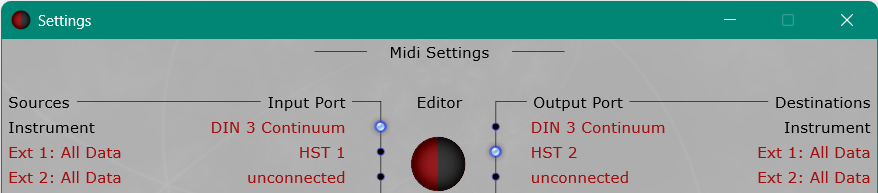
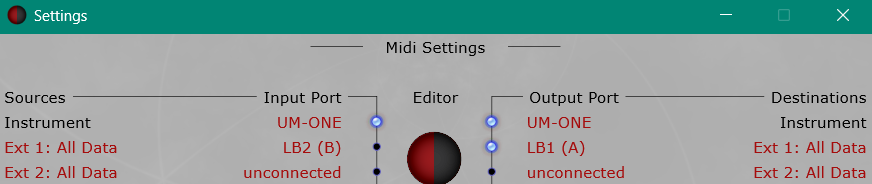
README MIDI loopback endpoint example screenshots

diff --git a/README.md b/README.md
@@ -12,8 +12,9 @@ The Continuum can provide MPE output, typically to control a software synth.  Ho
 
 ### Supported Instruments
 
-PitchGrid-Continuum Bridge (PCB) has so far only been tested with the Continuum.  But it should also work with the ContinuuMini. PCB is not required for the Osmose, as that instrument can be configured to be tuned via PitchGrid's MPE Input / MPE Output routing.
-And PCB does not support the Osmose anyway:  although the Osmose has the EaganMatrix sound engine in common with the Continuum, it does not provide a public API that would allow tuning.
+PitchGrid-Continuum Bridge (PCB) has so far only been tested with the Haken Continuum.  But it should also work with the Haken ContinuuMini.
+
+PCB is not required for the Osmose, as that instrument can be configured to be tuned via PitchGrid's MPE Input / MPE Output routing. And PCB does not support the Osmose anyway:  although the Osmose has the EaganMatrix sound engine in common with the Continuum, it does not provide a public API that would allow tuning.
 
 ### Supported Haken Audio Firmware Versions
 
@@ -37,14 +38,14 @@ For use with PitchGrid-Continuum Bridge and a Continuum, PitchGrid has no input 
 
 <img src="docs\images\PitchGrid OSC Enabled.png" alt="PitchGrid OSC Enabled" style="zoom: 80%;" />
 
-PCB connects to Haken Editor's External input and output in All Data mode. As usual, Haken Editor's instrument input and output connect to the instrument.
+PCB connects to Haken Editor's External input and output in All Data mode. As usual, Haken Editor's instrument input and output connect to the instrument. In the example screenshots below, PCB and Haken Editor are connected via MIDI loopback endpoints.
 
 <img src="docs\images\PCB MIDI Connections.png" alt="PCB MIDI Connections" style="zoom: 80%;" />
 <img src="docs\images\Editor MIDI Settings.png" alt="Editor MIDI Settings" style="zoom: 80%;" />
 
 > [!WARNING]
 >
-> *PitchGrid-Continuum Bridge must not be connected directly to the instrument.  Doing that causes a MIDI loop, which is indicated on the instrument's display.*
+> *PitchGrid-Continuum Bridge must not be connected directly to the instrument.  Doing that will cause a MIDI loop, which is indicated on the instrument's display.*
 >
 > <img src="docs\images\Loop.png" alt="Loop" style="zoom: 100%;" />
 
@@ -52,9 +53,10 @@ PCB connects to Haken Editor's External input and output in All Data mode. As us
 
 As PitchGrid-Continuum Bridge and Haken Editor are both software, you (obviously) cannot connect them with cables.  Instead, these options are available:
 
+- MIDI loopback endpoints, which in Windows are provided by Microsoft's recently introduced Windows MIDI Services.
+
 - Virtual MIDI ports.
 
-- Loopback endpoints, which in Windows are provided by Microsoft's recently introduced Windows MIDI Services.
 - A USB MIDI router, such as [IConnectivity's mioXL and mioXM](https://www.iconnectivity.com/midi-interfaces-1).
 
 ### Load Order
